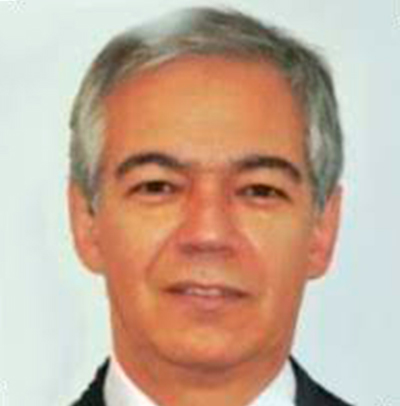
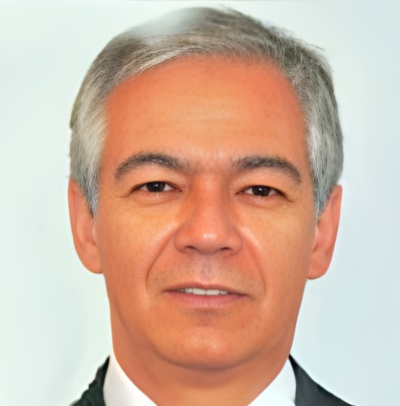
[ADD] - New files:   data.js         -> contains arrays for 'artworks' and 'categories'.   big-screen.css  -> styles for screens > 1299px.
- script.js now accepts modules (added attribute type="module").

[CHANGE]
- Artist's picture was replaced.
- Artist's info adjusted for displaying in tablet, desktop and big-screen.
- Artist's info is now justified.
- artworks array moved from gallery.js to data.js.

diff --git a/js/gallery.js b/js/gallery.js
@@ -1,73 +1,13 @@
-const artworks = [
-    { category: "nudes", src: "11GDf9cPdRMO21f4oMcrMAR7SEXnagDIa", alt: "", title: "ABRAZO", technique: "Grafito sobre papel", size: "50 x 70 cm", },
-    { category: "animals", src: "1kziOvyqhFk5SnY7wLIBwhKq4jtvyGLEC", alt: "", title: "ALASKA Y EROS", technique: "Grafito sobre papel", size: "32 x 50 cm", },
-    { category: "portraits", src: "1r48lTLNEujOsIed3aQk-h9AiPkBnY8CK", alt: "", title: "Aleja", technique: "Grafito sobre papel", size: "35 x 50 cm", },
-    { category: "portraits", src: "1ATPbCX7pnxBWxasnfTa67rRUs7WZn8T0", alt: "", title: "ALEJANDRO", technique: "Grafito sobre papel", size: "35 x 50 cm", },
-    { category: "nudes", src: "1dXHWGj_LXdtW8rraN2raTtdipxPEO7kj", alt: "", title: "AMANECER", technique: "Grafito sobre papel", size: "40 x 35 cm", },
-    { category: "portraits", src: "1Jjhnt1vv7-N7WFyBbs-pnQVOxutYe9r_", alt: "", title: "ANA Y JAIME", technique: "Grafito sobre papel", size: "33 x 50 cm", },
-    { category: "portraits", src: "1AwVxO-w6bMeNK8ma6HdF96WDQl9sGSWw", alt: "", title: "ANDREA", technique: "Grafito sobre papel", size: "70 x 50 cm", },
-    { category: "nudes", src: "1dMJ721jlW3yViUTXgzgos5coSU8gd0Vj", alt: "", title: "BAILARINA", technique: "Lápiz de color sobre papel", size: "50 x 35 cm", },
-    { category: "portraits", src: "1YVWU4f5C6MXnOOXVsGcNdEi1R42inDig", alt: "", title: "BB", technique: "Grafito sobre papel", size: "40 x 35 cm", },
-    { category: "nudes", src: "1up5N1IgBAVK6SNUpYlnkmlMwJ97x2NRh", alt: "", title: "BOUDOIR", technique: "Grafito sobre papel", size: "50 x 35 cm", },
-    {category: "POR_DEFINIR",src: "1yYqg_qe8eHAJKV-_F2IO59kwtL9dAn0d",alt: "",title: "CENSURA",technique: "Lápiz de color sobre papel",size: "50 x 32 cm",},
-    { category: "portraits", src: "1AThC3Payo-ewqGwYnsTAlTJIxQKETkKv", alt: "", title: "COMPLICIDAD", technique: "Grafito sobre papel", size: "35 x 50 cm", },
-    { category: "animals", src: "19oX7MZg1puHzclgaXTPc2-9y_bBS26ek", alt: "", title: "CORCEL", technique: "Grafito sobre papel", size: "35 x 50 cm", },
-    { category: "portraits", src: "1U-YPYwbgbeOB7dh6egIpffebFRYniiF1", alt: "", title: "Dany", technique: "Pastel sobre papel", size: "70 x 50 cm", },
-    { category: "portraits", src: "1c9V8npHXNTSKsqPp4xGwkewB3kEPZ11V", alt: "", title: "Don Joaquín", technique: "Grafito sobre papel", size: "35x50 cm", },
-    { category: "portraits", src: "1s-qe81wOjQiI6PID3fQH9q1pLRz9ZyWj", alt: "", title: "Eliana", technique: "Grafito sobre papel", size: "50 x 32 cm", },
-    { category: "nudes", src: "1hpWOShPu8S6466T-A8soaeTohEXcXQL_", alt: "", title: "Entre sábanas", technique: "Grafito sobre papel", size: "50 x 70 cm", },
-    { category: "nudes", src: "1VZIvrGwf5Q_RMNVkCn_WFUG8FH4pEmPq", alt: "", title: "Estudio", technique: "Sepia sobre papel", size: "35 x 50 cm", },
-    {category: "POR_DEFINIR",src: "1hWyGJJPSVXoqlCh1ZFZqcmsDFCYBVaYt",alt: "",title: "Explosión roja",technique: "Acrílico",size: "",},
-    { category: "portraits", src: "1PIQtO3lgUUqRBgkAJl9cLxitDmP5icXI", alt: "", title: "Fer", technique: "Grafito sobre papel", size: "35 x 40 cm", },
-    { category: "still_life", src: "1aaqlC4CSSPhUM98bIMAUavtXhyLuYxLT", alt: "", title: "Fruto", technique: "Óleo (2 piezas)", size: "", },
-    { category: "lights", src: "1bwu-3aOqPNHBjjH8uKgTjkJR0klQhNjG", alt: "", title: "Génesis", technique: "Lápiz blanco sobre papel", size: "100 x 70 cm", },
-    { category: "nudes", src: "12u6QI6YaV5uCgxFwVM9uaZAf1E68E7H2", alt: "", title: "Indiferencia", technique: "Grafito sobre papel", size: "70 x 100 cm", },
-    {category: "POR_DEFINIR",src: "1gT5ccsagCg3Zeaw1GWDvwnBMN8PDFqUC",alt: "",title: "La Camisa",technique: "Grafito sobre papel",size: "50 x 70 cm",},
-    {category: "POR_DEFINIR",src: "1ikzwRL-1b53zjgj9_QeVQ4EKT47JMqlq",alt: "",title: "La Espera",technique: "Grafito sobre papel",size: "50 x 35 cm",},
-    { category: "nudes", src: "1DgxTvkDRD1mU55DX3c5s_TMsEIRNnyvV", alt: "", title: "Liset", technique: "Grafito sobre papel", size: "50 x 70 cm", },
-    { category: "animals", src: "1wv8AF6D7FfySckWkg5SFlJODF98t0uuS", alt: "", title: "Luciano", technique: "Grafito sobre papel", size: "35 x 50 cm", },
-    { category: "portraits", src: "1Cc3GW12ktllfJEjuAEMckUUy3KB69Sy5", alt: "", title: "Majo", technique: "Grafito sobre papel", size: "50 x 32 cm", },
-    { category: "nudes", src: "1Xd7QE8LucOwQkBku3n8nBF2hr2Po2BMN", alt: "", title: "Margara", technique: "Grafito sobre papel", size: "100 x 70 cm", },
-    { category: "portraits", src: "1GGNROI6IJxy3LDqwJHdp0DZMaNXrcY96", alt: "", title: "Margarita", technique: "Grafito sobre papel", size: "50 x 70 cm", },
-    { category: "portraits", src: "1L2zaBFEnIHhpj9AenO-FbyBhGOkQ9E6q", alt: "", title: "Mariangel", technique: "Grafito sobre papel", size: "35 x 50 cm", },
-    { category: "portraits", src: "11u_m6F4lL9eOf6cn1zmurGHHNAHD0066", alt: "", title: "Mariela", technique: "Grafito sobre papel", size: "33 x 50 cm", },
-    { category: "portraits", src: "1huQXalYiGOTd_lJ8MVnZyZGBmfdzGnWw", alt: "", title: "Martín", technique: "Grafito sobre papel", size: "30 x 40 cm", },
-    { category: "portraits", src: "1-qG1bj-pCk1SF1tL1uNJhhinDt2T-m2K", alt: "", title: "Medusa", technique: "Grafito sobre papel", size: "50 x 35 cm", },
-    { category: "portraits", src: "1WWv09BDH5eCi4YXKv1YEtJY9NcT6Wx2_", alt: "", title: "Melancolía", technique: "Grafito sobre papel", size: "70 x 50 cm", },
-    { category: "portraits", src: "1iH1_cLu0ZrI0zSf44iiLL6xuPx6GRElm", alt: "", title: "Milena", technique: "Grafito sobre papel", size: "60 x 42 cm", },
-    { category: "nudes", src: "1J3XvAQ3NdWI6aV_GF97x1R0pREPTRxYm", alt: "", title: "Negación", technique: "Grafito sobre papel", size: "50 x 70 cm", },
-    { category: "portraits", src: "1cP2QUwi5tDJGlHz1z1JNB3crDMITbUs6", alt: "", title: "Nikita", technique: "Grafito sobre papel", size: "35 x 50 cm", },
-    { category: "portraits", src: "1gpH2IHesthgH2BflFf3E-1Z6NQT19frp", alt: "", title: "Patricia", technique: "Grafito sobre papel", size: "50 x 35 cm", },
-    { category: "portraits", src: "15XR1bWpK-P7Zrs-uVmh0OrihYLNSwevp", alt: "", title: "Pensamientos", technique: "Grafito sobre papel", size: "50 x 70 cm", },
-    { category: "lights", src: "19R9hkZG8SXe9UXfTb0o0cLLTgDTXVBFL", alt: "", title: "Penumbras 1", technique: "Lápiz blanco sobre papel", size: "70 x 50 cm", },
-    { category: "lights", src: "1hTdiLym9SoKCEwDO6OiiJTAwzVVrnAHs", alt: "", title: "Penumbras 2", technique: "Lápiz blanco sobre papel", size: "70 x 50 cm", },
-    { category: "lights", src: "1073wBzxIGl2alI5Fkefmpf3-Q4Q1UICS", alt: "", title: "Penumbras 3", technique: "Lápiz blanco sobre papel", size: "70 x 50 cm", },
-    { category: "animals", src: "1c2Owl32Q2DSBfCmMwFq9pvwICvO05nxS", alt: "", title: "Pola", technique: "Grafito sobre papel", size: "32 x 50 cm", },
-    { category: "animals", src: "1EDLRVmQdOqCnX0D3S03RLr1MbZDTL5iT", alt: "", title: "Samuel y Oscar", technique: "Grafito sobre papel", size: "32 x 50 cm", },
-    { category: "nudes", src: "1tGIl7V97Khhto7LUEsuO0DUSqEWvnOk5", alt: "", title: "Sensualidad al rojo", technique: "Lápiz de color sobre papel", size: "35 x 50 cm", },
-    { category: "portraits", src: "1yFknwwQNHsAuPREh0jy6jUBjUp6KSlzg", alt: "", title: "Sin título", technique: "Grafito sobre papel", size: "32 x 50 cm", },
-    { category: "nudes", src: "1woUMdNTnu8qJv2ei64CyAFq6CC7IP2Wb", alt: "", title: "Sueños en rojo", technique: "Lápiz de color sobre papel", size: "50 x 32 cm", },
-    { category: "portraits", src: "1fEOELRxdW-7pKuSTn1HNjS2d_5WuzZ41", alt: "", title: "Sueños tiernos", technique: "Grafito sobre papel", size: "70 x 50 cm", },
-    { category: "animals", src: "1skFv0YlE2tOHuKKgs2T-YhpEolDOloo1", alt: "", title: "Teresita", technique: "Grafito sobre papel", size: "50 x 35 cm", },
-    { category: "animals", src: "1ixDIKKJwfTueBE2o5rIN-OR0tzFKU3wv", alt: "", title: "Toffy", technique: "Grafito sobre papel", size: "35 x 50 cm", },
-    { category: "lights", src: "1boKyL4_kdx3jW-jMNURj9Nsh8XWxU9mk", alt: "", title: "Torso 1", technique: "Lápiz blanco sobre papel", size: "50 x 70 cm", },
-    { category: "lights", src: "18mefkHpj-pby_MEaC1F2RmTZ-zYvDTq5", alt: "", title: "Torso 2", technique: "Lápiz blanco sobre papel", size: "50 x 70 cm", },
-    { category: "nudes", src: "1x4ri7g7VIV-Dt6DXW4lhQQ3eGtUCB9lt", alt: "", title: "Verano", technique: "Grafito sobre papel", size: "50 x 35 cm", },
-    {category: "nudes",src: "10Lb8Nug3ZcnRo-EcydhbOIFseuUINk0F",alt: "",title: "Sinfonía de placer",technique: "Lápiz sobre papel",size: "50 x 35 cm",},
-    {category: "portraits",src: "1CzYjJkGWHh0PIrsb3uI3XZw_UGX5IAdv",alt: "",title: "Pepe",technique: "Grafito sobre papel",size: "50 x 35 cm",},
-    {category: "portraits",src: "1ApGh6BXEvyha5dRJV6yHeGpZOYqkYgrx",alt: "",title: "Zuza",technique: "Grafito sobre papel",size: "50 x 35 cm",},
-        
-
-
-];
+import {artworks} from './data.js';
+console.log(artworks);
 
 const d = document,
     $gallery = d.getElementById("gallery"),
-    $template = d.getElementById("template").content;
+    $template = d.getElementById("template").content,
     $fragment = d.createDocumentFragment();
 
 artworks.forEach(el => {
-    $clone = d.importNode($template, true);
+    let $clone = d.importNode($template, true);
 
     $clone.querySelector(".artwork").classList.add(el.category);
     $clone.querySelector("img").setAttribute("src", "http://drive.google.com/uc?export=view&id=" + el.src);

diff --git a/js/data.js b/js/data.js
@@ -1,0 +1,67 @@
+ export const artworks = [
+  { category: "nudes", src: "11GDf9cPdRMO21f4oMcrMAR7SEXnagDIa", alt: "", title: "ABRAZO", technique: "Grafito sobre papel", size: "50 x 70 cm", },
+  { category: "animals", src: "1kziOvyqhFk5SnY7wLIBwhKq4jtvyGLEC", alt: "", title: "ALASKA Y EROS", technique: "Grafito sobre papel", size: "32 x 50 cm", },
+  { category: "portraits", src: "1r48lTLNEujOsIed3aQk-h9AiPkBnY8CK", alt: "", title: "Aleja", technique: "Grafito sobre papel", size: "35 x 50 cm", },
+  { category: "portraits", src: "1ATPbCX7pnxBWxasnfTa67rRUs7WZn8T0", alt: "", title: "ALEJANDRO", technique: "Grafito sobre papel", size: "35 x 50 cm", },
+  { category: "nudes", src: "1dXHWGj_LXdtW8rraN2raTtdipxPEO7kj", alt: "", title: "AMANECER", technique: "Grafito sobre papel", size: "40 x 35 cm", },
+  { category: "portraits", src: "1Jjhnt1vv7-N7WFyBbs-pnQVOxutYe9r_", alt: "", title: "ANA Y JAIME", technique: "Grafito sobre papel", size: "33 x 50 cm", },
+  { category: "portraits", src: "1AwVxO-w6bMeNK8ma6HdF96WDQl9sGSWw", alt: "", title: "ANDREA", technique: "Grafito sobre papel", size: "70 x 50 cm", },
+  { category: "nudes", src: "1dMJ721jlW3yViUTXgzgos5coSU8gd0Vj", alt: "", title: "BAILARINA", technique: "Lápiz de color sobre papel", size: "50 x 35 cm", },
+  { category: "portraits", src: "1YVWU4f5C6MXnOOXVsGcNdEi1R42inDig", alt: "", title: "BB", technique: "Grafito sobre papel", size: "40 x 35 cm", },
+  { category: "nudes", src: "1up5N1IgBAVK6SNUpYlnkmlMwJ97x2NRh", alt: "", title: "BOUDOIR", technique: "Grafito sobre papel", size: "50 x 35 cm", },
+  { category: "POR_DEFINIR", src: "1yYqg_qe8eHAJKV-_F2IO59kwtL9dAn0d", alt: "", title: "CENSURA", technique: "Lápiz de color sobre papel", size: "50 x 32 cm", },
+  { category: "portraits", src: "1AThC3Payo-ewqGwYnsTAlTJIxQKETkKv", alt: "", title: "COMPLICIDAD", technique: "Grafito sobre papel", size: "35 x 50 cm", },
+  { category: "animals", src: "19oX7MZg1puHzclgaXTPc2-9y_bBS26ek", alt: "", title: "CORCEL", technique: "Grafito sobre papel", size: "35 x 50 cm", },
+  { category: "portraits", src: "1U-YPYwbgbeOB7dh6egIpffebFRYniiF1", alt: "", title: "Dany", technique: "Pastel sobre papel", size: "70 x 50 cm", },
+  { category: "portraits", src: "1c9V8npHXNTSKsqPp4xGwkewB3kEPZ11V", alt: "", title: "Don Joaquín", technique: "Grafito sobre papel", size: "35x50 cm", },
+  { category: "portraits", src: "1s-qe81wOjQiI6PID3fQH9q1pLRz9ZyWj", alt: "", title: "Eliana", technique: "Grafito sobre papel", size: "50 x 32 cm", },
+  { category: "nudes", src: "1hpWOShPu8S6466T-A8soaeTohEXcXQL_", alt: "", title: "Entre sábanas", technique: "Grafito sobre papel", size: "50 x 70 cm", },
+  { category: "nudes", src: "1VZIvrGwf5Q_RMNVkCn_WFUG8FH4pEmPq", alt: "", title: "Estudio", technique: "Sepia sobre papel", size: "35 x 50 cm", },
+  { category: "POR_DEFINIR", src: "1hWyGJJPSVXoqlCh1ZFZqcmsDFCYBVaYt", alt: "", title: "Explosión roja", technique: "Acrílico", size: "", },
+  { category: "portraits", src: "1PIQtO3lgUUqRBgkAJl9cLxitDmP5icXI", alt: "", title: "Fer", technique: "Grafito sobre papel", size: "35 x 40 cm", },
+  { category: "still_life", src: "1aaqlC4CSSPhUM98bIMAUavtXhyLuYxLT", alt: "", title: "Fruto", technique: "Óleo (2 piezas)", size: "", },
+  { category: "lights", src: "1bwu-3aOqPNHBjjH8uKgTjkJR0klQhNjG", alt: "", title: "Génesis", technique: "Lápiz blanco sobre papel", size: "100 x 70 cm", },
+  { category: "nudes", src: "12u6QI6YaV5uCgxFwVM9uaZAf1E68E7H2", alt: "", title: "Indiferencia", technique: "Grafito sobre papel", size: "70 x 100 cm", },
+  { category: "POR_DEFINIR", src: "1gT5ccsagCg3Zeaw1GWDvwnBMN8PDFqUC", alt: "", title: "La Camisa", technique: "Grafito sobre papel", size: "50 x 70 cm", },
+  { category: "POR_DEFINIR", src: "1ikzwRL-1b53zjgj9_QeVQ4EKT47JMqlq", alt: "", title: "La Espera", technique: "Grafito sobre papel", size: "50 x 35 cm", },
+  { category: "nudes", src: "1DgxTvkDRD1mU55DX3c5s_TMsEIRNnyvV", alt: "", title: "Liset", technique: "Grafito sobre papel", size: "50 x 70 cm", },
+  { category: "animals", src: "1wv8AF6D7FfySckWkg5SFlJODF98t0uuS", alt: "", title: "Luciano", technique: "Grafito sobre papel", size: "35 x 50 cm", },
+  { category: "portraits", src: "1Cc3GW12ktllfJEjuAEMckUUy3KB69Sy5", alt: "", title: "Majo", technique: "Grafito sobre papel", size: "50 x 32 cm", },
+  { category: "nudes", src: "1Xd7QE8LucOwQkBku3n8nBF2hr2Po2BMN", alt: "", title: "Margara", technique: "Grafito sobre papel", size: "100 x 70 cm", },
+  { category: "portraits", src: "1GGNROI6IJxy3LDqwJHdp0DZMaNXrcY96", alt: "", title: "Margarita", technique: "Grafito sobre papel", size: "50 x 70 cm", },
+  { category: "portraits", src: "1L2zaBFEnIHhpj9AenO-FbyBhGOkQ9E6q", alt: "", title: "Mariangel", technique: "Grafito sobre papel", size: "35 x 50 cm", },
+  { category: "portraits", src: "11u_m6F4lL9eOf6cn1zmurGHHNAHD0066", alt: "", title: "Mariela", technique: "Grafito sobre papel", size: "33 x 50 cm", },
+  { category: "portraits", src: "1huQXalYiGOTd_lJ8MVnZyZGBmfdzGnWw", alt: "", title: "Martín", technique: "Grafito sobre papel", size: "30 x 40 cm", },
+  { category: "portraits", src: "1-qG1bj-pCk1SF1tL1uNJhhinDt2T-m2K", alt: "", title: "Medusa", technique: "Grafito sobre papel", size: "50 x 35 cm", },
+  { category: "portraits", src: "1WWv09BDH5eCi4YXKv1YEtJY9NcT6Wx2_", alt: "", title: "Melancolía", technique: "Grafito sobre papel", size: "70 x 50 cm", },
+  { category: "portraits", src: "1iH1_cLu0ZrI0zSf44iiLL6xuPx6GRElm", alt: "", title: "Milena", technique: "Grafito sobre papel", size: "60 x 42 cm", },
+  { category: "nudes", src: "1J3XvAQ3NdWI6aV_GF97x1R0pREPTRxYm", alt: "", title: "Negación", technique: "Grafito sobre papel", size: "50 x 70 cm", },
+  { category: "portraits", src: "1cP2QUwi5tDJGlHz1z1JNB3crDMITbUs6", alt: "", title: "Nikita", technique: "Grafito sobre papel", size: "35 x 50 cm", },
+  { category: "portraits", src: "1gpH2IHesthgH2BflFf3E-1Z6NQT19frp", alt: "", title: "Patricia", technique: "Grafito sobre papel", size: "50 x 35 cm", },
+  { category: "portraits", src: "15XR1bWpK-P7Zrs-uVmh0OrihYLNSwevp", alt: "", title: "Pensamientos", technique: "Grafito sobre papel", size: "50 x 70 cm", },
+  { category: "lights", src: "19R9hkZG8SXe9UXfTb0o0cLLTgDTXVBFL", alt: "", title: "Penumbras 1", technique: "Lápiz blanco sobre papel", size: "70 x 50 cm", },
+  { category: "lights", src: "1hTdiLym9SoKCEwDO6OiiJTAwzVVrnAHs", alt: "", title: "Penumbras 2", technique: "Lápiz blanco sobre papel", size: "70 x 50 cm", },
+  { category: "lights", src: "1073wBzxIGl2alI5Fkefmpf3-Q4Q1UICS", alt: "", title: "Penumbras 3", technique: "Lápiz blanco sobre papel", size: "70 x 50 cm", },
+  { category: "animals", src: "1c2Owl32Q2DSBfCmMwFq9pvwICvO05nxS", alt: "", title: "Pola", technique: "Grafito sobre papel", size: "32 x 50 cm", },
+  { category: "animals", src: "1EDLRVmQdOqCnX0D3S03RLr1MbZDTL5iT", alt: "", title: "Samuel y Oscar", technique: "Grafito sobre papel", size: "32 x 50 cm", },
+  { category: "nudes", src: "1tGIl7V97Khhto7LUEsuO0DUSqEWvnOk5", alt: "", title: "Sensualidad al rojo", technique: "Lápiz de color sobre papel", size: "35 x 50 cm", },
+  { category: "portraits", src: "1yFknwwQNHsAuPREh0jy6jUBjUp6KSlzg", alt: "", title: "Sin título", technique: "Grafito sobre papel", size: "32 x 50 cm", },
+  { category: "nudes", src: "1woUMdNTnu8qJv2ei64CyAFq6CC7IP2Wb", alt: "", title: "Sueños en rojo", technique: "Lápiz de color sobre papel", size: "50 x 32 cm", },
+  { category: "portraits", src: "1fEOELRxdW-7pKuSTn1HNjS2d_5WuzZ41", alt: "", title: "Sueños tiernos", technique: "Grafito sobre papel", size: "70 x 50 cm", },
+  { category: "animals", src: "1skFv0YlE2tOHuKKgs2T-YhpEolDOloo1", alt: "", title: "Teresita", technique: "Grafito sobre papel", size: "50 x 35 cm", },
+  { category: "animals", src: "1ixDIKKJwfTueBE2o5rIN-OR0tzFKU3wv", alt: "", title: "Toffy", technique: "Grafito sobre papel", size: "35 x 50 cm", },
+  { category: "lights", src: "1boKyL4_kdx3jW-jMNURj9Nsh8XWxU9mk", alt: "", title: "Torso 1", technique: "Lápiz blanco sobre papel", size: "50 x 70 cm", },
+  { category: "lights", src: "18mefkHpj-pby_MEaC1F2RmTZ-zYvDTq5", alt: "", title: "Torso 2", technique: "Lápiz blanco sobre papel", size: "50 x 70 cm", },
+  { category: "nudes", src: "1x4ri7g7VIV-Dt6DXW4lhQQ3eGtUCB9lt", alt: "", title: "Verano", technique: "Grafito sobre papel", size: "50 x 35 cm", },
+  { category: "nudes", src: "10Lb8Nug3ZcnRo-EcydhbOIFseuUINk0F", alt: "", title: "Sinfonía de placer", technique: "Lápiz sobre papel", size: "50 x 35 cm", },
+  { category: "portraits", src: "1CzYjJkGWHh0PIrsb3uI3XZw_UGX5IAdv", alt: "", title: "Pepe", technique: "Grafito sobre papel", size: "50 x 35 cm", },
+  { category: "portraits", src: "1ApGh6BXEvyha5dRJV6yHeGpZOYqkYgrx", alt: "", title: "Zuza", technique: "Grafito sobre papel", size: "50 x 35 cm", },
+];
+
+export const categories = [
+  { category: "portraits", src: "1ATPbCX7pnxBWxasnfTa67rRUs7WZn8T0", alt: "", name: "Retratos", },
+  { category: "nudes", src: "1dXHWGj_LXdtW8rraN2raTtdipxPEO7kj", alt: "", name: "Desnudos", },
+  { category: "lights", src: "1hTdiLym9SoKCEwDO6OiiJTAwzVVrnAHs", alt: "", name: "Luz", },
+  { category: "animals", src: "1wv8AF6D7FfySckWkg5SFlJODF98t0uuS", alt: "", name: "Animales", },
+  { category: "still-life", src: "1ATPbCX7pnxBWxasnfTa67rRUs7WZn8T0", alt: "", name: "Bodegones", },
+]

diff --git a/index.html b/index.html
@@ -20,6 +20,7 @@
   <link rel="stylesheet" href="css/phone.css"/>
   <link rel="stylesheet" href="css/tablet.css" media="(min-width: 767px)" />
   <link rel="stylesheet" href="css/desktop.css" media="(min-width: 1023px)" />
+  <link rel="stylesheet" href="css/big-screen.css" media="(min-width: 1299px)" />
   <title>All Artem</title>
 </head>
 
@@ -230,7 +231,7 @@
   </div>
 
   <script src="js/jquery.js"></script>
-  <script src="js/scripts.js"></script>
+  <script src="js/scripts.js" type="module"></script>
 </body>
 
 </html>

diff --git a/css/phone.css b/css/phone.css
@@ -173,7 +173,7 @@ body {
 .container {
     text-align: center;
     margin-top: 10px;
-    width: 100%;
+    width: 90%;
     max-width: 550px;
     margin: auto;
     padding: 20px
@@ -317,7 +317,7 @@ body {
 }
 
 .biography__text {
-    text-align: left;
+    text-align: justify;
     font-size: 1rem;
     line-height: 1.3rem;
     

diff --git a/css/tablet.css b/css/tablet.css
@@ -33,7 +33,7 @@
 }
 
 .container {
-    max-width: 650px;
+    max-width: 80%;
 }
 
 .categories {
@@ -49,6 +49,7 @@
 
 .biography__artistpic {
     width: 40%;
+    margin: auto;
 }
 
 .biography__artistpic__image {
@@ -57,7 +58,7 @@
 }
 
 .biography__text {
-    width: 55%;
+    width: 100%;
 }
 
 .contact__text {

diff --git a/css/desktop.css b/css/desktop.css
@@ -3,7 +3,19 @@
 }
 
 .container {
-    max-width: 1200px;
+    /* max-width: 900px; */
+    max-width: 75%;
+}
+
+.biography__artistpic {
+    width: 40%;
+    margin: auto;
+}
+
+.biography__text {
+    width: 55%;
+    font-size: 1rem;
+    line-height: 1.4;
 }
 
 .contact__text--title {

diff --git a/gallery.html b/gallery.html
@@ -95,8 +95,8 @@
       </div>
 
     <script src="js/jquery.js"></script>
-    <script src="js/scripts.js"></script>
-    <script src="js/gallery.js"></script>
+    <!-- <script src="js/scripts.js"></script> -->
+    <script src="js/gallery.js" type="module"></script>
     
 </body>
 

diff --git a/js/scripts.js b/js/scripts.js
@@ -15,7 +15,7 @@ const contactInfo = document.querySelector(".contact__info");
 const deviceWidth = window.innerWidth;
 
 //const anchoFondo = (window.pageYOffset / altura) * 900;
-  
+
 nombre.style.bottom = "50%";
 nombre.style.transform = "translateY(50%)";
 

diff --git a/css/big-screen.css b/css/big-screen.css
@@ -1,0 +1,11 @@
+.biography__artistpic {
+  width: 30%;
+  margin: auto;
+}
+
+.biography__text {
+  width: 65%;
+  font-size: 1.2rem;
+  line-height: 1.4;
+}
+
